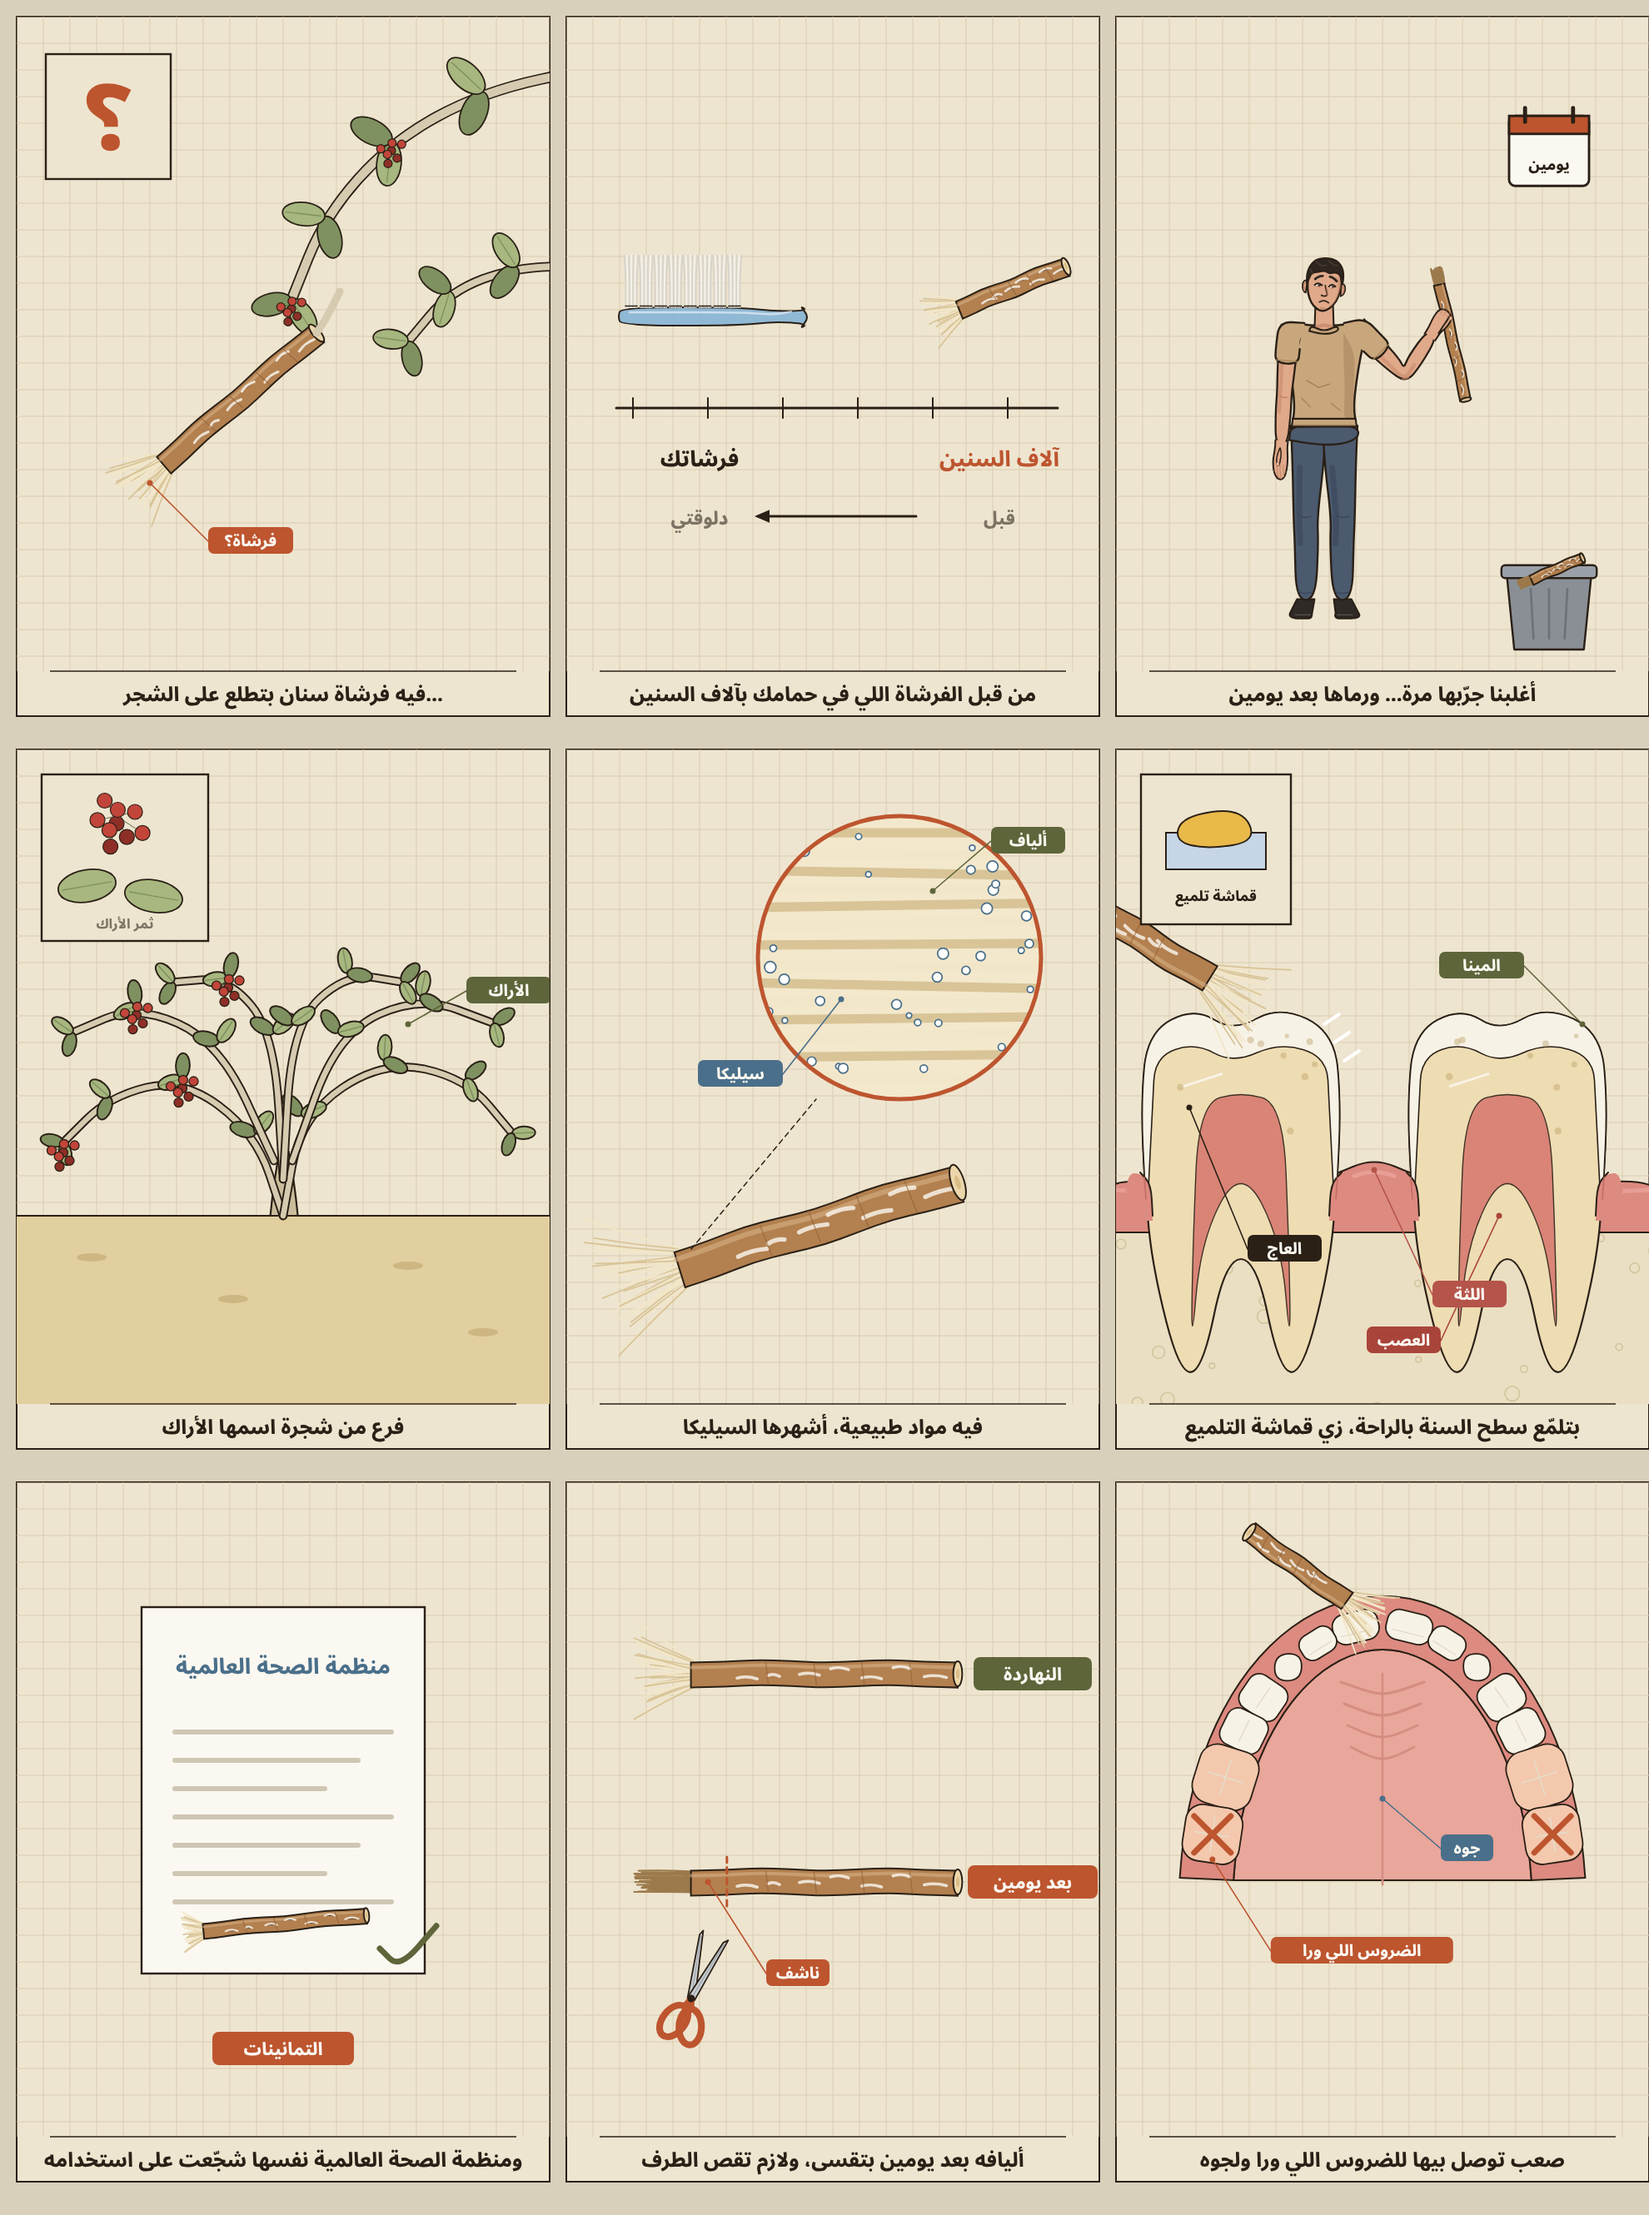
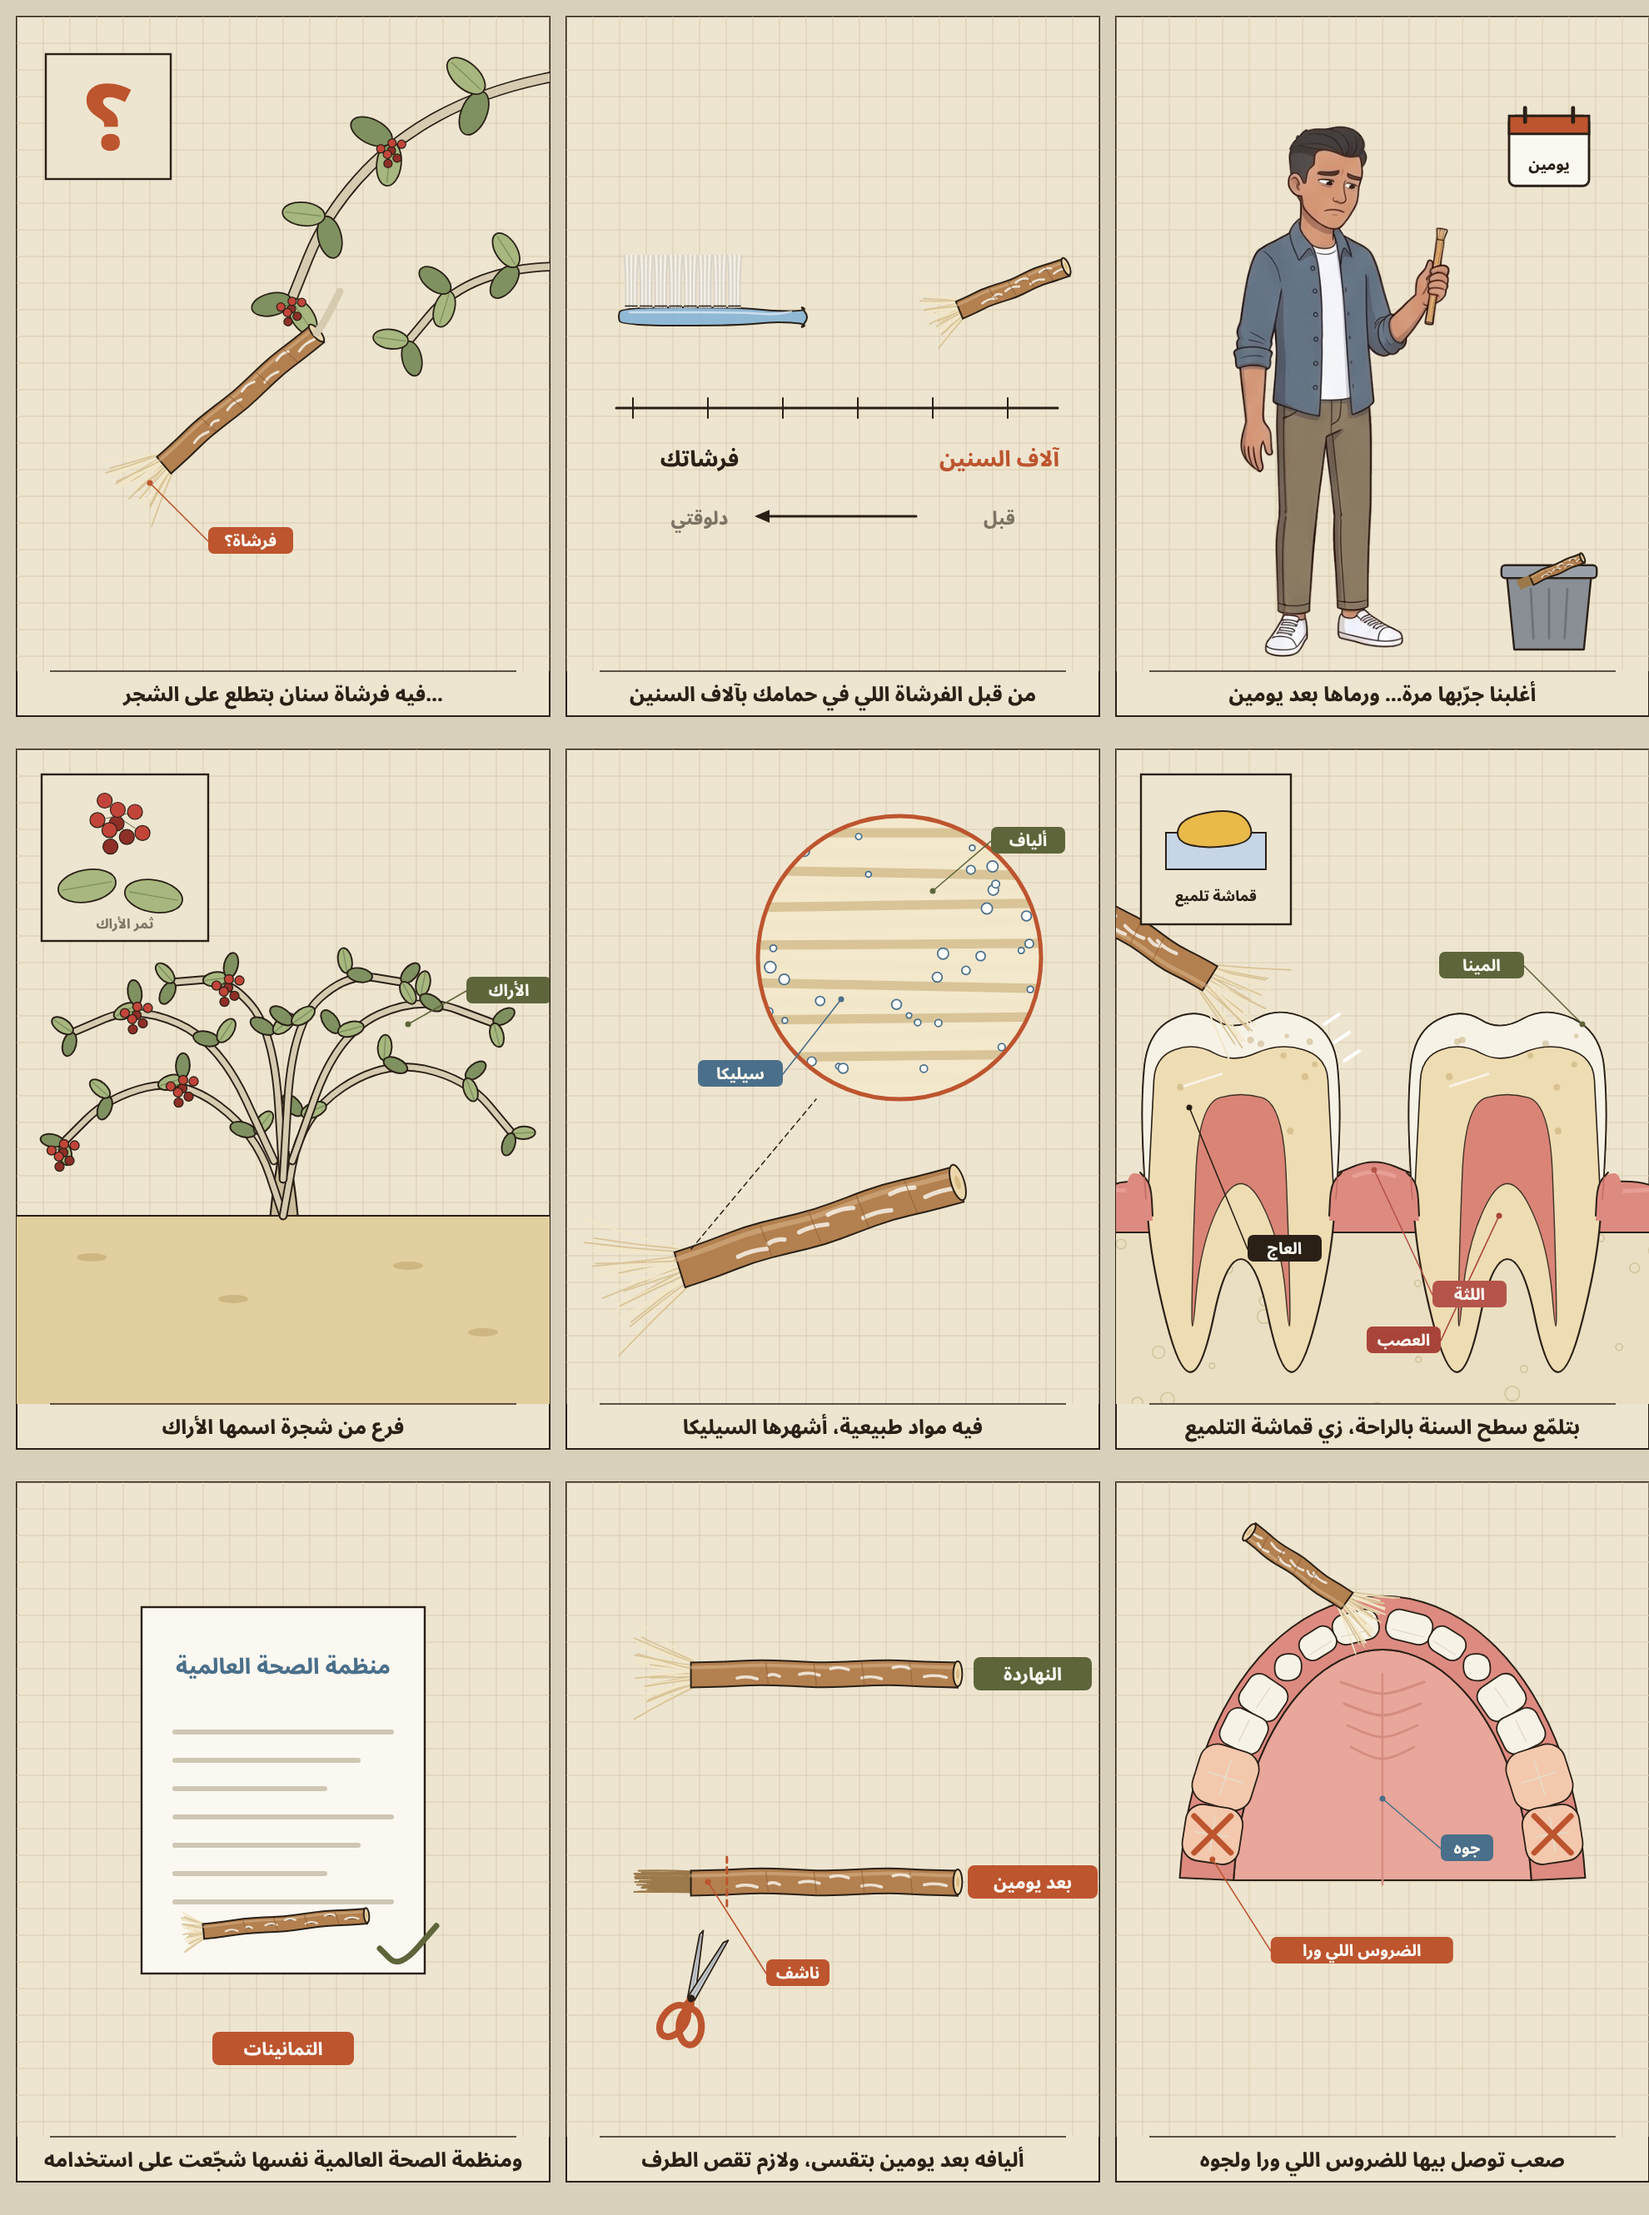
people kit: the host's 17 poses (two Gemini pose sheets); miswak panels use the host
Claude-Session: https://claude.ai/code/session_016TN7FJH1eYNmEmJEpYVqor

Changed region(s): [[0.7394, 0.0312, 0.8934, 0.312]]

diff --git a/videos/_templates/people/gemini/sprites.js b/videos/_templates/people/gemini/sprites.js
@@ -5,7 +5,7 @@
    bottom); height in page units. o.flip: mirror; o.t: the page time, adds calm breathing (a 0.6 percent rise) and a tiny
    sway; o.op: opacity; o.rot: degrees about the feet. PERSON.spriteNames() lists them; PERSON.spriteSize(name) = [w, h]. */
 (function () {
-var IDX = {"a-doctor": [298, 838], "a-galabeya": [294, 795], "a-home": [300, 847], "a-home2": [282, 791], "a-office": [287, 838], "a-office2": [272, 795], "a-woman-hijab": [256, 787], "a-worker": [290, 842], "b-doctor": [415, 1160], "b-galabeya": [427, 1145], "b-home": [415, 1144], "b-office": [409, 1160], "b-woman-hijab": [400, 1147], "b-worker": [410, 1184], "beard-arms-crossed": [210, 686], "beard-belly": [273, 722], "beard-brushing": [297, 722], "beard-explain": [455, 695], "beard-miswak-sad": [281, 715], "beard-point-up": [298, 722], "beard-sit": [410, 611], "beard-sit2": [381, 630], "beard-talk": [372, 639], "beard-walk": [341, 698], "c-doctor-scrubs": [337, 1113], "c-home": [349, 1114], "c-home2": [333, 1106], "c-office": [333, 1113], "c-thobe": [339, 1106], "c-thobe2": [337, 1106], "c-woman-hijab": [308, 1091], "c-worker": [332, 1129], "cap-arms-crossed": [237, 784], "cap-belly": [306, 894], "cap-brushing": [346, 895], "cap-miswak-sad": [291, 887], "cap-point-up": [325, 895], "cap-sit": [395, 691], "cap-sit2": [373, 689], "cap-talk": [409, 807], "cap-walk": [351, 807], "curly-arms-crossed": [270, 739], "curly-belly": [279, 800], "curly-brushing": [334, 800], "curly-explain": [481, 769], "curly-miswak-sad": [335, 787], "curly-point-up": [324, 801], "curly-sit": [404, 702], "curly-stand-3q": [275, 680], "curly-talk": [316, 672], "curly-walk": [357, 771], "hand-back-open": [290, 509], "hand-back-open2": [289, 520], "hand-back": [318, 523], "hand-belly": [464, 276], "hand-fist": [257, 362], "hand-grip-stick": [238, 577], "hand-palm": [321, 546], "hand-point": [248, 537], "hand-relaxed-back": [266, 540], "hand-relaxed-side": [195, 554], "hand-rest": [483, 276], "hand-thumbsup": [345, 365], "hand-toothbrush": [292, 567], "hand-wave": [339, 540], "host-3q": [346, 1467], "host-back": [434, 1451], "host-front": [437, 1465], "host-side": [234, 1449], "tshirt-3q": [343, 1456], "tshirt-back": [430, 1440], "tshirt-front": [433, 1453], "tshirt-side": [233, 1441]};
+var IDX = {"a-doctor": [298, 838], "a-galabeya": [294, 795], "a-home": [300, 847], "a-home2": [282, 791], "a-office": [287, 838], "a-office2": [272, 795], "a-woman-hijab": [256, 787], "a-worker": [290, 842], "b-doctor": [415, 1160], "b-galabeya": [427, 1145], "b-home": [415, 1144], "b-office": [409, 1160], "b-woman-hijab": [400, 1147], "b-worker": [410, 1184], "beard-arms-crossed": [210, 686], "beard-belly": [273, 722], "beard-brushing": [297, 722], "beard-explain": [455, 695], "beard-miswak-sad": [281, 715], "beard-point-up": [298, 722], "beard-sit": [410, 611], "beard-sit2": [381, 630], "beard-talk": [372, 639], "beard-walk": [341, 698], "c-doctor-scrubs": [337, 1113], "c-home": [349, 1114], "c-home2": [333, 1106], "c-office": [333, 1113], "c-thobe": [339, 1106], "c-thobe2": [337, 1106], "c-woman-hijab": [308, 1091], "c-worker": [332, 1129], "cap-arms-crossed": [237, 784], "cap-belly": [306, 894], "cap-brushing": [346, 895], "cap-miswak-sad": [291, 887], "cap-point-up": [325, 895], "cap-sit": [395, 691], "cap-sit2": [373, 689], "cap-talk": [409, 807], "cap-walk": [351, 807], "curly-arms-crossed": [270, 739], "curly-belly": [279, 800], "curly-brushing": [334, 800], "curly-explain": [481, 769], "curly-miswak-sad": [335, 787], "curly-point-up": [324, 801], "curly-sit": [404, 702], "curly-stand-3q": [275, 680], "curly-talk": [316, 672], "curly-walk": [357, 771], "hand-back-open": [290, 509], "hand-back-open2": [289, 520], "hand-back": [318, 523], "hand-belly": [464, 276], "hand-fist": [257, 362], "hand-grip-stick": [238, 577], "hand-palm": [321, 546], "hand-point": [248, 537], "hand-relaxed-back": [266, 540], "hand-relaxed-side": [195, 554], "hand-rest": [483, 276], "hand-thumbsup": [345, 365], "hand-toothbrush": [292, 567], "hand-wave": [339, 540], "host-3q": [346, 1467], "host-arms-crossed": [186, 597], "host-back": [434, 1451], "host-belly-half": [277, 537], "host-belly": [265, 687], "host-brushing": [284, 742], "host-explain": [329, 685], "host-front": [437, 1465], "host-miswak-sad": [306, 732], "host-miswak-sad2": [225, 779], "host-point-up": [313, 740], "host-point-up2": [316, 795], "host-show-brush": [240, 595], "host-side": [234, 1449], "host-sit": [342, 578], "host-stand-3q": [231, 792], "host-surprised": [285, 612], "host-surprised2": [321, 643], "host-think": [177, 620], "host-thumbs-up": [240, 616], "host-walk": [301, 675], "tshirt-3q": [343, 1456], "tshirt-back": [430, 1440], "tshirt-front": [433, 1453], "tshirt-side": [233, 1441]};
 var base = (function () { var s = document.currentScript && document.currentScript.src; return s ? s.replace(/[^/]*$/, "") + "sprites/" : "sprites/"; })();
 function sprite(name, x, fy, h, o) {
   o = o || {}; var d = IDX[name]; if (!d) return "";

diff --git a/videos/miswak/sketch/review.html b/videos/miswak/sketch/review.html
@@ -34,7 +34,7 @@ if (SHEET === 1) {
     Z.arrow(420, 600, 230, 600, C.INK, 3) + Z.T("قبل", 520, 610, 22, "#7d7364") + Z.T("دلوقتي", 160, 610, 22, "#7d7364"));
   // 3 · most of us tried it once… and threw it away after two days
   panel("أغلبنا جرّبها مرة… ورماها بعد يومين",
-    PERSON.sprite("beard-miswak-sad", 260, 770, 640) + Z.bin(520, 760, 1.1) + Z.stick(490, 680, 560, 650, 12, { dry: 1, fray: .6 }) + Z.calendar(520, 160, 1.2, "يومين"));
+    PERSON.sprite("host-miswak-sad", 270, 775, 650) + Z.bin(520, 760, 1.1) + Z.stick(490, 680, 560, 650, 12, { dry: 1, fray: .6 }) + Z.calendar(520, 160, 1.2, "يومين"));
   // 5 · the Arak shrub; the stick is a twig of it
   panel("فرع من شجرة اسمها الأراك",
     '<rect x="0" y="560" width="640" height="230" fill="#e2cf9f"/>' + Z.line([[0, 560], [640, 560]], C.INK, 2) + [[90, 610], [260, 660], [470, 620], [560, 700]].map(function (p) { return '<ellipse cx="' + p[0] + '" cy="' + p[1] + '" rx="18" ry="5" fill="#cdb682"/>'; }).join("") +
@@ -90,7 +90,7 @@ if (SHEET === 1) {
     Z.brushEnd(350, 380, 422, 530, { taper: true, miswak: true, bend: .8 }) + Z.check(390, 250, 26) + Z.chip(120, 730, "خشنة", "#6d6a64") + Z.chip(430, 730, "ناعمة", C.OLIVE));
   // 19 · use it without paste when you're out: at work or travelling
   panel("من غير معجون وانت برّه البيت، في الشغل أو السفر",
-    PERSON.sprite("c-office", 400, 770, 640) +
+    PERSON.sprite("host-show-brush", 400, 775, 650) +
     Z.box(110, 170, 160, '<rect x="-56" y="-30" width="112" height="76" rx="8" fill="#8d5d35" stroke="#2a2016" stroke-width="2"/><rect x="-22" y="-44" width="44" height="16" rx="5" fill="none" stroke="#2a2016" stroke-width="4"/>' + Z.T("الشغل", 0, 70, 17)) +
     Z.box(110, 370, 160, Z.poly([[-60, 6], [50, -6], [62, 0], [50, 6], [-60, 8]], "#d9dde1", 2) + Z.poly([[-6, 2], [20, -36], [30, -36], [14, 2]], "#c3c9ce", 2) + Z.poly([[-50, 2], [-60, -20], [-52, -20], [-38, 2]], "#c3c9ce", 2) + Z.T("السفر", 0, 70, 17)) + Z.logo(LOGO, 510, 62, 220));
   // 20 · a kids' size and a small pocket one with a cap (real photo)

diff --git a/videos/_templates/people/gemini/README.md b/videos/_templates/people/gemini/README.md
@@ -29,7 +29,7 @@ PERSON.spriteNames()                                                            
 
 | set | names |
 |---|---|
-| the host (main character) | host-front, host-3q, host-side, host-back |
+| the host (main character) | host-front, host-3q, host-side, host-back, host-stand-3q · host-point-up, host-point-up2, host-miswak-sad, host-miswak-sad2, host-brushing, host-belly, host-belly-half (waist-up), host-explain, host-walk, host-sit, host-arms-crossed, host-show-brush, host-think, host-surprised, host-surprised2, host-thumbs-up |
 | first draft | tshirt-front, tshirt-3q, tshirt-side, tshirt-back |
 | hands | hand-relaxed-side, hand-relaxed-back, hand-palm, hand-back, hand-point, hand-grip-stick, hand-toothbrush, hand-fist, hand-wave, hand-thumbsup, hand-rest, hand-back-open, hand-back-open2, hand-belly |
 | poses ×3 characters | {beard,cap,curly}-point-up, -miswak-sad, -brushing, -belly, -walk, -sit, -arms-crossed, -talk; beard/curly-explain; beard-sit2, cap-sit2, curly-stand-3q |
